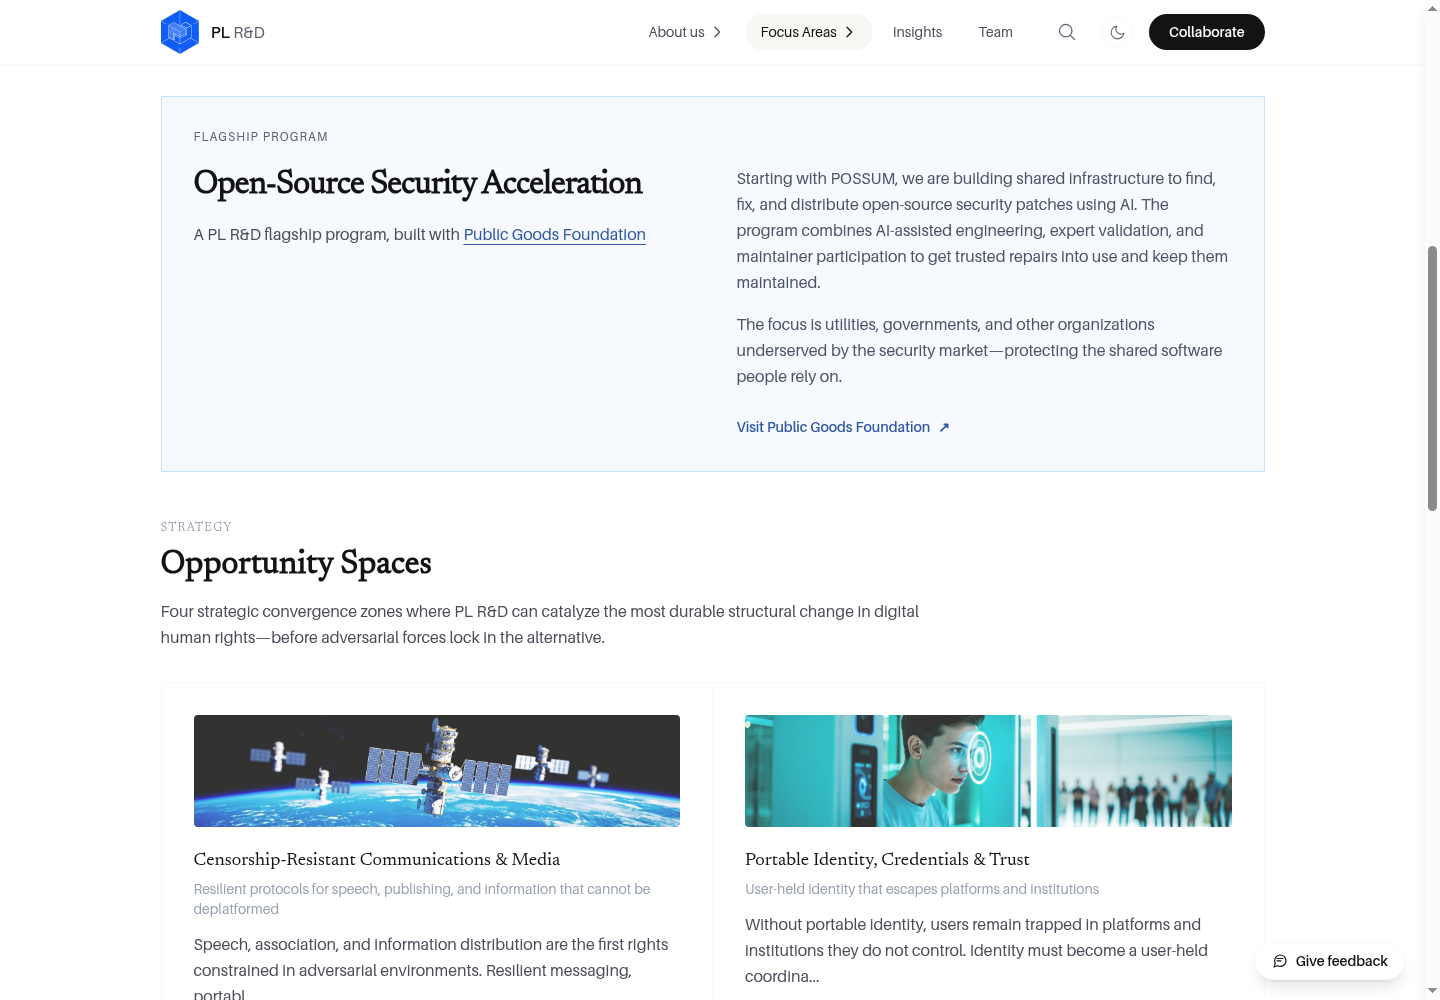
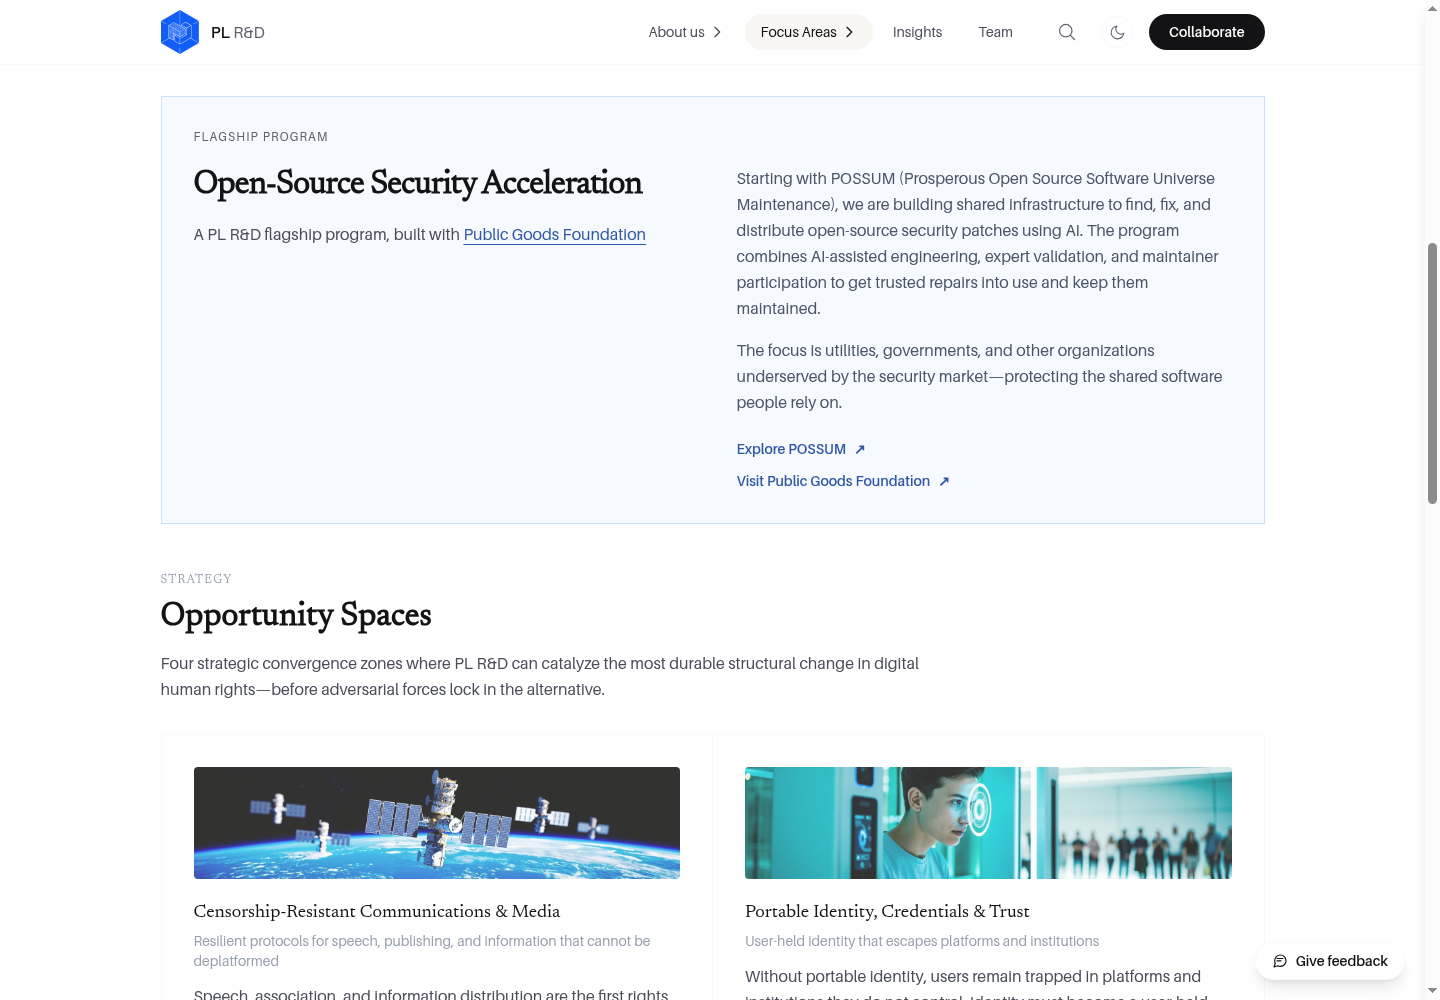
fix(dhr): expand POSSUM and link its one-pager

Changed region(s): [[0.0938, 0.558, 0.875, 1.0], [0.5, 0.155, 0.8438, 0.496], [0.8125, 0.992, 0.8438, 1.0]]

diff --git a/src/app/areas/[slug]/page.tsx b/src/app/areas/[slug]/page.tsx
@@ -248,19 +248,29 @@ export default async function AreaPage({ params }: Props) {
             </div>
             <div className="text-base text-gray-700 leading-relaxed">
               <p className="mb-4">
-                Starting with POSSUM, we are building shared infrastructure to find, fix, and distribute open-source security patches using AI. The program combines AI-assisted engineering, expert validation, and maintainer participation to get trusted repairs into use and keep them maintained.
+                Starting with POSSUM (Prosperous Open Source Software Universe Maintenance), we are building shared infrastructure to find, fix, and distribute open-source security patches using AI. The program combines AI-assisted engineering, expert validation, and maintainer participation to get trusted repairs into use and keep them maintained.
               </p>
               <p className="mb-6">
                 The focus is utilities, governments, and other organizations underserved by the security market—protecting the shared software people rely on.
               </p>
-              <a
-                href="https://www.publicgoods.foundation/"
-                target="_blank"
-                rel="noopener noreferrer"
-                className="inline-flex items-center gap-2 text-sm font-semibold text-dark-blue dark:text-blue-200 hover:underline underline-offset-4"
-              >
-                Visit Public Goods Foundation <span aria-hidden="true">↗</span>
-              </a>
+              <div className="flex flex-col items-start gap-3">
+                <a
+                  href="https://www.papermark.com/view/cmun40jb4002wl904fozsoy98"
+                  target="_blank"
+                  rel="noopener noreferrer"
+                  className="inline-flex items-center gap-2 text-sm font-semibold text-dark-blue dark:text-blue-200 hover:underline underline-offset-4"
+                >
+                  Explore POSSUM <span aria-hidden="true">↗</span>
+                </a>
+                <a
+                  href="https://www.publicgoods.foundation/"
+                  target="_blank"
+                  rel="noopener noreferrer"
+                  className="inline-flex items-center gap-2 text-sm font-semibold text-dark-blue dark:text-blue-200 hover:underline underline-offset-4"
+                >
+                  Visit Public Goods Foundation <span aria-hidden="true">↗</span>
+                </a>
+              </div>
             </div>
           </div>
         </section>

diff --git a/docs/dhr-flagship/verification.md b/docs/dhr-flagship/verification.md
@@ -1,6 +1,6 @@
 # DHR flagship program — verification
 
-Adds **Open-Source Security Acceleration** to `/areas/digital-human-rights/#flagship-program`, after the introduction and before Opportunity Spaces. It identifies POSSUM as the starting initiative, credits Public Goods Foundation, and links to its supplied public homepage. Other focus areas and the retired interventions catalog are unchanged.
+Adds **Open-Source Security Acceleration** to `/areas/digital-human-rights/#flagship-program`, after the introduction and before Opportunity Spaces. It identifies POSSUM (Prosperous Open Source Software Universe Maintenance) as the starting initiative, credits Public Goods Foundation, and adds **Explore POSSUM** above **Visit Public Goods Foundation**, linking to the owner-supplied Papermark one-pager. Other focus areas and the retired interventions catalog are unchanged.
 
 ## Checks — October 22, 2026
 
@@ -9,9 +9,9 @@ Adds **Open-Source Security Acceleration** to `/areas/digital-human-rights/#flag
 - `npx tsc --noEmit`: passed.
 - Production `npm run build`: passed.
 - Full `npm test`: **154 passed, 1 failed**. The failure in `scripts/velocity/impact-methodology-tabs.test.mjs:73` expects old methodology wording. The identical failure was reproduced in an untouched worktree at base `29ef011503d801f379a4767f362645d8775dfce3`. No introduced failures; the unrelated assertion is not changed here.
-- Headed Chrome against the actual local production route: checked 1440, 768, 390, and 320px. No horizontal overflow or clipped flagship title; both exact external links and all four existing opportunity cards are present.
+- Headed Chrome against the actual local production route: checked 1440, 768, 390, and 320px. No horizontal overflow or clipped flagship title; all three exact external links and all four existing opportunity cards are present.
 - Link contrast measured from computed styles: **6.48:1 light**, **11.48:1 dark**. Both exceed WCAG AA normal-text contrast. The initial dark-link failure was corrected and replayed after a hard reload.
-- Independent review: PASS on the exact runtime/test diff, no security or logic findings.
+- Original independent review: PASS. Follow-up reviewer-mode pass: PASS on the acronym, exact one-pager URL, stacked CTA order, preserved partner link, DHR-only scope, and screenshots. The follow-up regression first failed on the absent expansion and then the missing link; final focused tests, full-suite comparison, TypeScript, build, and four-width browser checks were replayed.
 
 ## Evidence
 
@@ -21,6 +21,6 @@ The PNGs are **local production-build screenshots**, not captures of the live pr
 - `dhr-390.png`: mobile section and complete outbound CTA.
 - `dhr-dark.png`: desktop dark theme.
 
-The public DHR page and PGF homepage/projects were read over HTTP. PGF's projects listing currently has no dedicated POSSUM page, so the CTA deliberately says **Visit Public Goods Foundation**. Program copy follows the owner-provided source material; it does not publish fundraising figures, unconfirmed backers, private source links, or completed-delivery claims.
+The public DHR page and PGF homepage/projects were read over HTTP. The owner-supplied **Explore POSSUM** URL is preserved exactly: https://www.papermark.com/view/cmun40jb4002wl904fozsoy98. It reaches a Papermark email-address gate; no address was submitted and the document behind that gate was not verified. The existing **Visit Public Goods Foundation** link remains below it. Program copy follows the owner-provided source material; it does not publish fundraising figures, unconfirmed backers, private Google Docs, or completed-delivery claims.
 
 This PR is for review. No merge or production publication is included.
